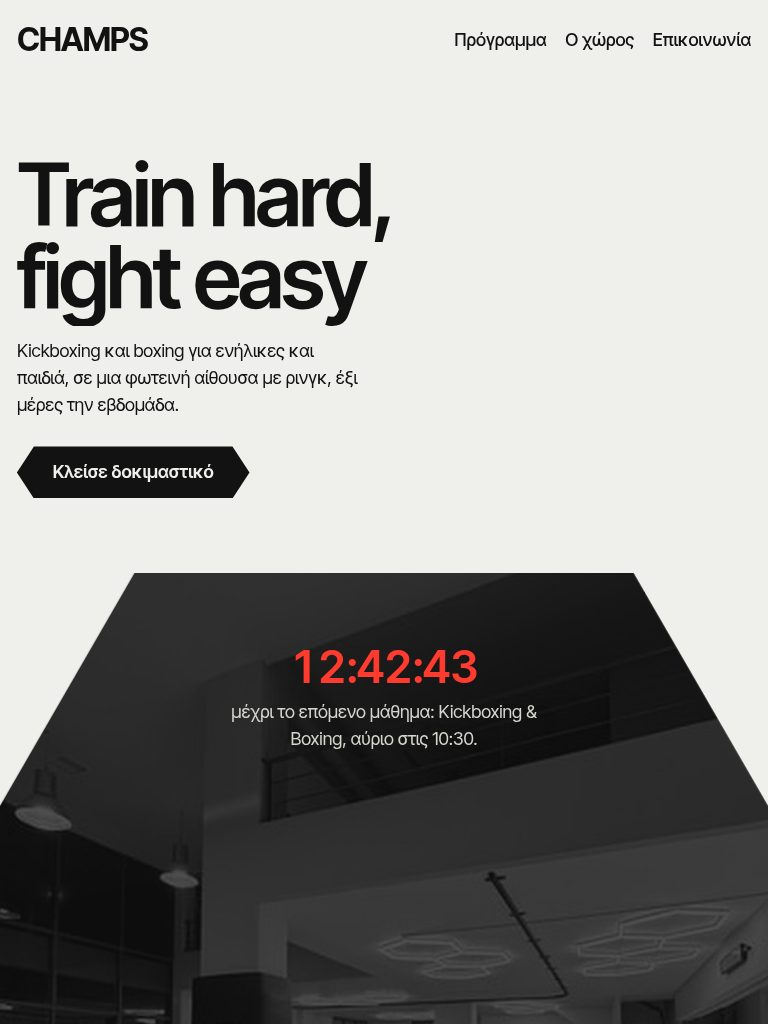
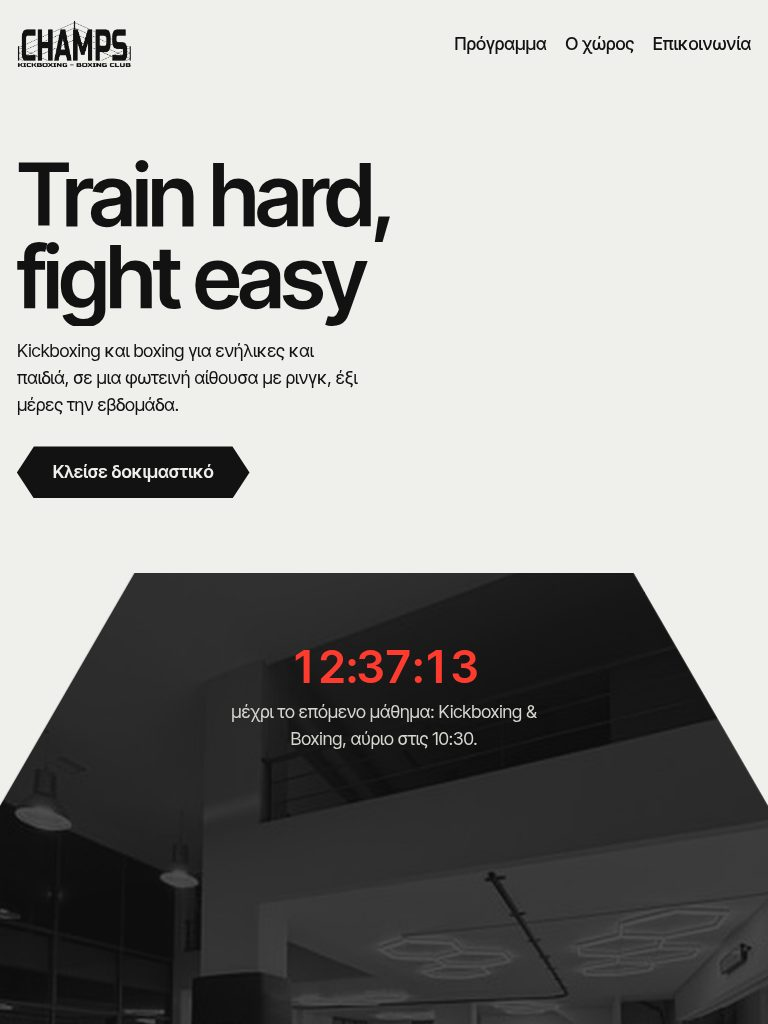
added things

Changed region(s): [[0.5938, 0.0312, 0.9688, 0.0625], [0.0, 0.0, 0.1875, 0.0625], [0.4688, 0.625, 0.5938, 0.6875]]

diff --git a/index.html b/index.html
@@ -8,13 +8,14 @@
 <link rel="preconnect" href="https://fonts.googleapis.com">
 <link rel="preconnect" href="https://fonts.gstatic.com" crossorigin>
 <link href="https://fonts.googleapis.com/css2?family=Inter+Tight:wght@400;500;600;700&display=swap" rel="stylesheet">
+<link rel="icon" href="assets/img/favicon.png">
 <link rel="stylesheet" href="styles.css">
 <script>document.documentElement.classList.add('js')</script>
 </head>
 <body>
 
 <header class="bar wrap">
-  <a class="wordmark" href="#top" aria-label="CHAMPS, αρχή σελίδας">CHAMPS</a>
+  <a class="wordmark" href="#top"><img src="assets/img/logo-ink.png" alt="CHAMPS Kickboxing – Boxing Club, αρχή σελίδας" width="1588" height="660"></a>
   <nav class="nav" aria-label="Κύριο μενού">
     <a class="link" href="#programma">Πρόγραμμα</a>
     <a class="link only-wide" href="#xoros">Ο χώρος</a>
@@ -38,7 +39,7 @@
   </section>
 
   <section class="intro wrap" aria-label="Ο σύλλογος">
-    <p class="statement" data-reveal>Ένα λευκό γυμναστήριο <span class="thumb"><img src="assets/img/hall-night.jpg" alt="" width="516" height="418"></span> με ρινγκ και σάκους <span class="thumb"><img src="assets/img/hall-bags.jpg" alt="" width="516" height="418"></span>, όπου ενήλικες και παιδιά <span class="thumb thumb-extra"><img src="assets/img/team.jpg" alt="" width="599" height="436"></span> προπονούνται μαζί κάτω από εξάγωνα φώτα.</p>
+    <p class="statement" data-reveal>Ένα λευκό γυμναστήριο <span class="thumb"><img src="assets/img/hall-night.jpg" alt="" width="516" height="418"></span> με ρινγκ και σάκους <span class="thumb"><img src="assets/img/hall-bags.jpg" alt="" width="516" height="418"></span>, όπου ενήλικες και παιδιά <span class="thumb thumb-extra"><img src="assets/img/kid-stance.jpg" alt="" width="283" height="273"></span> προπονούνται μαζί κάτω από εξάγωνα φώτα.</p>
   </section>
 
   <section class="programme" id="programma" aria-labelledby="programme-title">
@@ -60,7 +61,7 @@
           <h3 class="day-name">Δευτέρα <span class="day-count">5 μαθήματα</span></h3>
           <ul class="classes">
             <li class="cls" data-start="10:30" data-end="11:30" data-name="Kickboxing &amp; Boxing"><span class="hex-bullet"><img src="assets/img/coach-pads.jpg" alt="" width="337" height="545" loading="lazy"></span><div class="cls-body"><p class="cls-row"><span class="cls-name">Kickboxing &amp; Boxing</span><span class="cls-time nums">10:30–11:30</span></p><p class="cls-desc">Πρωινό μικτό τμήμα, για κάθε επίπεδο.</p><p class="cls-flag" hidden></p></div></li>
-            <li class="cls" data-start="17:30" data-end="18:30" data-name="Παιδικό τμήμα"><span class="hex-bullet"><img src="assets/img/kids-kick.jpg" alt="" width="337" height="545" loading="lazy"></span><div class="cls-body"><p class="cls-row"><span class="cls-name">Παιδικό τμήμα</span><span class="cls-time nums">17:30–18:30</span></p><p class="cls-desc">Kickboxing για παιδιά: πειθαρχία, συντονισμός, ασφάλεια.</p><p class="cls-flag" hidden></p></div></li>
+            <li class="cls" data-start="17:30" data-end="18:30" data-name="Παιδικό τμήμα"><span class="hex-bullet"><img src="assets/img/kid-stance.jpg" alt="" width="283" height="273" loading="lazy"></span><div class="cls-body"><p class="cls-row"><span class="cls-name">Παιδικό τμήμα</span><span class="cls-time nums">17:30–18:30</span></p><p class="cls-desc">Kickboxing για παιδιά: πειθαρχία, συντονισμός, ασφάλεια.</p><p class="cls-flag" hidden></p></div></li>
             <li class="cls" data-start="18:30" data-end="19:30" data-name="Kickboxing &amp; Boxing"><span class="hex-bullet"><img src="assets/img/coach-pads.jpg" alt="" width="337" height="545" loading="lazy"></span><div class="cls-body"><p class="cls-row"><span class="cls-name">Kickboxing &amp; Boxing</span><span class="cls-time nums">18:30–19:30</span></p><p class="cls-desc">Μικτό τμήμα: τεχνική, σάκος και στόχοι.</p><p class="cls-flag" hidden></p></div></li>
             <li class="cls" data-start="19:30" data-end="20:30" data-name="Cross training"><span class="hex-bullet"><img src="assets/img/hall-bags.jpg" alt="" width="516" height="418" loading="lazy"></span><div class="cls-body"><p class="cls-row"><span class="cls-name">Cross training</span><span class="cls-time nums">19:30–20:30</span></p><p class="cls-desc">Κυκλική προπόνηση δύναμης και αντοχής.</p><p class="cls-flag" hidden></p></div></li>
             <li class="cls" data-start="20:30" data-end="21:30" data-name="Kickboxing &amp; Boxing"><span class="hex-bullet"><img src="assets/img/coach-pads.jpg" alt="" width="337" height="545" loading="lazy"></span><div class="cls-body"><p class="cls-row"><span class="cls-name">Kickboxing &amp; Boxing</span><span class="cls-time nums">20:30–21:30</span></p><p class="cls-desc">Το βραδινό μικτό τμήμα, για κάθε επίπεδο.</p><p class="cls-flag" hidden></p></div></li>
@@ -70,9 +71,9 @@
           <h3 class="day-name">Τρίτη <span class="day-count">5 μαθήματα</span></h3>
           <ul class="classes">
             <li class="cls" data-start="10:30" data-end="11:30" data-name="Kickboxing &amp; Boxing"><span class="hex-bullet"><img src="assets/img/coach-pads.jpg" alt="" width="337" height="545" loading="lazy"></span><div class="cls-body"><p class="cls-row"><span class="cls-name">Kickboxing &amp; Boxing</span><span class="cls-time nums">10:30–11:30</span></p><p class="cls-desc">Πρωινό μικτό τμήμα, για κάθε επίπεδο.</p><p class="cls-flag" hidden></p></div></li>
-            <li class="cls" data-start="17:30" data-end="18:30" data-name="Παιδικό τμήμα"><span class="hex-bullet"><img src="assets/img/kids-kick.jpg" alt="" width="337" height="545" loading="lazy"></span><div class="cls-body"><p class="cls-row"><span class="cls-name">Παιδικό τμήμα</span><span class="cls-time nums">17:30–18:30</span></p><p class="cls-desc">Kickboxing για παιδιά: πειθαρχία, συντονισμός, ασφάλεια.</p><p class="cls-flag" hidden></p></div></li>
+            <li class="cls" data-start="17:30" data-end="18:30" data-name="Παιδικό τμήμα"><span class="hex-bullet"><img src="assets/img/kid-stance.jpg" alt="" width="283" height="273" loading="lazy"></span><div class="cls-body"><p class="cls-row"><span class="cls-name">Παιδικό τμήμα</span><span class="cls-time nums">17:30–18:30</span></p><p class="cls-desc">Kickboxing για παιδιά: πειθαρχία, συντονισμός, ασφάλεια.</p><p class="cls-flag" hidden></p></div></li>
             <li class="cls" data-start="18:30" data-end="19:30" data-name="Kickboxing &amp; Boxing"><span class="hex-bullet"><img src="assets/img/coach-pads.jpg" alt="" width="337" height="545" loading="lazy"></span><div class="cls-body"><p class="cls-row"><span class="cls-name">Kickboxing &amp; Boxing</span><span class="cls-time nums">18:30–19:30</span></p><p class="cls-desc">Μικτό τμήμα: τεχνική, σάκος και στόχοι.</p><p class="cls-flag" hidden></p></div></li>
-            <li class="cls" data-start="19:30" data-end="20:30" data-name="Boxing"><span class="hex-bullet"><img src="assets/img/sparring.jpg" alt="" width="337" height="545" loading="lazy"></span><div class="cls-body"><p class="cls-row"><span class="cls-name">Boxing</span><span class="cls-time nums">19:30–20:30</span></p><p class="cls-desc">Μόνο χέρια: στάση, κίνηση, άμυνα, στόχοι.</p><p class="cls-flag" hidden></p></div></li>
+            <li class="cls" data-start="19:30" data-end="20:30" data-name="Boxing"><span class="hex-bullet"><img src="assets/img/pads-mirror.jpg" alt="" width="337" height="545" loading="lazy"></span><div class="cls-body"><p class="cls-row"><span class="cls-name">Boxing</span><span class="cls-time nums">19:30–20:30</span></p><p class="cls-desc">Μόνο χέρια: στάση, κίνηση, άμυνα, στόχοι.</p><p class="cls-flag" hidden></p></div></li>
             <li class="cls" data-start="20:30" data-end="21:30" data-name="Kickboxing &amp; Boxing"><span class="hex-bullet"><img src="assets/img/coach-pads.jpg" alt="" width="337" height="545" loading="lazy"></span><div class="cls-body"><p class="cls-row"><span class="cls-name">Kickboxing &amp; Boxing</span><span class="cls-time nums">20:30–21:30</span></p><p class="cls-desc">Το βραδινό μικτό τμήμα, για κάθε επίπεδο.</p><p class="cls-flag" hidden></p></div></li>
           </ul>
         </div>
@@ -80,7 +81,7 @@
           <h3 class="day-name">Τετάρτη <span class="day-count">5 μαθήματα</span></h3>
           <ul class="classes">
             <li class="cls" data-start="10:30" data-end="11:30" data-name="Kickboxing &amp; Boxing"><span class="hex-bullet"><img src="assets/img/coach-pads.jpg" alt="" width="337" height="545" loading="lazy"></span><div class="cls-body"><p class="cls-row"><span class="cls-name">Kickboxing &amp; Boxing</span><span class="cls-time nums">10:30–11:30</span></p><p class="cls-desc">Πρωινό μικτό τμήμα, για κάθε επίπεδο.</p><p class="cls-flag" hidden></p></div></li>
-            <li class="cls" data-start="17:30" data-end="18:30" data-name="Παιδικό τμήμα"><span class="hex-bullet"><img src="assets/img/kids-kick.jpg" alt="" width="337" height="545" loading="lazy"></span><div class="cls-body"><p class="cls-row"><span class="cls-name">Παιδικό τμήμα</span><span class="cls-time nums">17:30–18:30</span></p><p class="cls-desc">Kickboxing για παιδιά: πειθαρχία, συντονισμός, ασφάλεια.</p><p class="cls-flag" hidden></p></div></li>
+            <li class="cls" data-start="17:30" data-end="18:30" data-name="Παιδικό τμήμα"><span class="hex-bullet"><img src="assets/img/kid-stance.jpg" alt="" width="283" height="273" loading="lazy"></span><div class="cls-body"><p class="cls-row"><span class="cls-name">Παιδικό τμήμα</span><span class="cls-time nums">17:30–18:30</span></p><p class="cls-desc">Kickboxing για παιδιά: πειθαρχία, συντονισμός, ασφάλεια.</p><p class="cls-flag" hidden></p></div></li>
             <li class="cls" data-start="18:30" data-end="19:30" data-name="Kickboxing &amp; Boxing"><span class="hex-bullet"><img src="assets/img/coach-pads.jpg" alt="" width="337" height="545" loading="lazy"></span><div class="cls-body"><p class="cls-row"><span class="cls-name">Kickboxing &amp; Boxing</span><span class="cls-time nums">18:30–19:30</span></p><p class="cls-desc">Μικτό τμήμα: τεχνική, σάκος και στόχοι.</p><p class="cls-flag" hidden></p></div></li>
             <li class="cls" data-start="19:30" data-end="20:30" data-name="Cross training"><span class="hex-bullet"><img src="assets/img/hall-bags.jpg" alt="" width="516" height="418" loading="lazy"></span><div class="cls-body"><p class="cls-row"><span class="cls-name">Cross training</span><span class="cls-time nums">19:30–20:30</span></p><p class="cls-desc">Κυκλική προπόνηση δύναμης και αντοχής.</p><p class="cls-flag" hidden></p></div></li>
             <li class="cls" data-start="20:30" data-end="21:30" data-name="Sparring"><span class="hex-bullet"><img src="assets/img/hall-ring.jpg" alt="" width="516" height="418" loading="lazy"></span><div class="cls-body"><p class="cls-row"><span class="cls-name">Sparring</span><span class="cls-time nums">20:30–21:30</span></p><p class="cls-desc">Ελεγχόμενο sparring, με προστατευτικά.</p><p class="cls-flag" hidden></p></div></li>
@@ -90,9 +91,9 @@
           <h3 class="day-name">Πέμπτη <span class="day-count">5 μαθήματα</span></h3>
           <ul class="classes">
             <li class="cls" data-start="10:30" data-end="11:30" data-name="Kickboxing &amp; Boxing"><span class="hex-bullet"><img src="assets/img/coach-pads.jpg" alt="" width="337" height="545" loading="lazy"></span><div class="cls-body"><p class="cls-row"><span class="cls-name">Kickboxing &amp; Boxing</span><span class="cls-time nums">10:30–11:30</span></p><p class="cls-desc">Πρωινό μικτό τμήμα, για κάθε επίπεδο.</p><p class="cls-flag" hidden></p></div></li>
-            <li class="cls" data-start="17:30" data-end="18:30" data-name="Παιδικό τμήμα"><span class="hex-bullet"><img src="assets/img/kids-kick.jpg" alt="" width="337" height="545" loading="lazy"></span><div class="cls-body"><p class="cls-row"><span class="cls-name">Παιδικό τμήμα</span><span class="cls-time nums">17:30–18:30</span></p><p class="cls-desc">Kickboxing για παιδιά: πειθαρχία, συντονισμός, ασφάλεια.</p><p class="cls-flag" hidden></p></div></li>
+            <li class="cls" data-start="17:30" data-end="18:30" data-name="Παιδικό τμήμα"><span class="hex-bullet"><img src="assets/img/kid-stance.jpg" alt="" width="283" height="273" loading="lazy"></span><div class="cls-body"><p class="cls-row"><span class="cls-name">Παιδικό τμήμα</span><span class="cls-time nums">17:30–18:30</span></p><p class="cls-desc">Kickboxing για παιδιά: πειθαρχία, συντονισμός, ασφάλεια.</p><p class="cls-flag" hidden></p></div></li>
             <li class="cls" data-start="18:30" data-end="19:30" data-name="Kickboxing &amp; Boxing"><span class="hex-bullet"><img src="assets/img/coach-pads.jpg" alt="" width="337" height="545" loading="lazy"></span><div class="cls-body"><p class="cls-row"><span class="cls-name">Kickboxing &amp; Boxing</span><span class="cls-time nums">18:30–19:30</span></p><p class="cls-desc">Μικτό τμήμα: τεχνική, σάκος και στόχοι.</p><p class="cls-flag" hidden></p></div></li>
-            <li class="cls" data-start="19:30" data-end="20:30" data-name="Boxing"><span class="hex-bullet"><img src="assets/img/sparring.jpg" alt="" width="337" height="545" loading="lazy"></span><div class="cls-body"><p class="cls-row"><span class="cls-name">Boxing</span><span class="cls-time nums">19:30–20:30</span></p><p class="cls-desc">Μόνο χέρια: στάση, κίνηση, άμυνα, στόχοι.</p><p class="cls-flag" hidden></p></div></li>
+            <li class="cls" data-start="19:30" data-end="20:30" data-name="Boxing"><span class="hex-bullet"><img src="assets/img/pads-mirror.jpg" alt="" width="337" height="545" loading="lazy"></span><div class="cls-body"><p class="cls-row"><span class="cls-name">Boxing</span><span class="cls-time nums">19:30–20:30</span></p><p class="cls-desc">Μόνο χέρια: στάση, κίνηση, άμυνα, στόχοι.</p><p class="cls-flag" hidden></p></div></li>
             <li class="cls" data-start="20:30" data-end="21:30" data-name="Kickboxing &amp; Boxing"><span class="hex-bullet"><img src="assets/img/coach-pads.jpg" alt="" width="337" height="545" loading="lazy"></span><div class="cls-body"><p class="cls-row"><span class="cls-name">Kickboxing &amp; Boxing</span><span class="cls-time nums">20:30–21:30</span></p><p class="cls-desc">Το βραδινό μικτό τμήμα, για κάθε επίπεδο.</p><p class="cls-flag" hidden></p></div></li>
           </ul>
         </div>
@@ -100,7 +101,7 @@
           <h3 class="day-name">Παρασκευή <span class="day-count">5 μαθήματα</span></h3>
           <ul class="classes">
             <li class="cls" data-start="10:30" data-end="11:30" data-name="Kickboxing &amp; Boxing"><span class="hex-bullet"><img src="assets/img/coach-pads.jpg" alt="" width="337" height="545" loading="lazy"></span><div class="cls-body"><p class="cls-row"><span class="cls-name">Kickboxing &amp; Boxing</span><span class="cls-time nums">10:30–11:30</span></p><p class="cls-desc">Πρωινό μικτό τμήμα, για κάθε επίπεδο.</p><p class="cls-flag" hidden></p></div></li>
-            <li class="cls" data-start="17:30" data-end="18:30" data-name="Παιδικό τμήμα"><span class="hex-bullet"><img src="assets/img/kids-kick.jpg" alt="" width="337" height="545" loading="lazy"></span><div class="cls-body"><p class="cls-row"><span class="cls-name">Παιδικό τμήμα</span><span class="cls-time nums">17:30–18:30</span></p><p class="cls-desc">Kickboxing για παιδιά: πειθαρχία, συντονισμός, ασφάλεια.</p><p class="cls-flag" hidden></p></div></li>
+            <li class="cls" data-start="17:30" data-end="18:30" data-name="Παιδικό τμήμα"><span class="hex-bullet"><img src="assets/img/kid-stance.jpg" alt="" width="283" height="273" loading="lazy"></span><div class="cls-body"><p class="cls-row"><span class="cls-name">Παιδικό τμήμα</span><span class="cls-time nums">17:30–18:30</span></p><p class="cls-desc">Kickboxing για παιδιά: πειθαρχία, συντονισμός, ασφάλεια.</p><p class="cls-flag" hidden></p></div></li>
             <li class="cls" data-start="18:30" data-end="19:30" data-name="Kickboxing &amp; Boxing"><span class="hex-bullet"><img src="assets/img/coach-pads.jpg" alt="" width="337" height="545" loading="lazy"></span><div class="cls-body"><p class="cls-row"><span class="cls-name">Kickboxing &amp; Boxing</span><span class="cls-time nums">18:30–19:30</span></p><p class="cls-desc">Μικτό τμήμα: τεχνική, σάκος και στόχοι.</p><p class="cls-flag" hidden></p></div></li>
             <li class="cls" data-start="19:30" data-end="20:30" data-name="Cross training"><span class="hex-bullet"><img src="assets/img/hall-bags.jpg" alt="" width="516" height="418" loading="lazy"></span><div class="cls-body"><p class="cls-row"><span class="cls-name">Cross training</span><span class="cls-time nums">19:30–20:30</span></p><p class="cls-desc">Κυκλική προπόνηση δύναμης και αντοχής.</p><p class="cls-flag" hidden></p></div></li>
             <li class="cls" data-start="20:30" data-end="21:30" data-name="Kickboxing &amp; Boxing"><span class="hex-bullet"><img src="assets/img/coach-pads.jpg" alt="" width="337" height="545" loading="lazy"></span><div class="cls-body"><p class="cls-row"><span class="cls-name">Kickboxing &amp; Boxing</span><span class="cls-time nums">20:30–21:30</span></p><p class="cls-desc">Το βραδινό μικτό τμήμα, για κάθε επίπεδο.</p><p class="cls-flag" hidden></p></div></li>
@@ -127,7 +128,7 @@
         <li class="point" data-reveal style="--c:var(--ink)"><h3><span class="mark"></span>Ρινγκ αγώνων</h3><p>Πλήρες ρινγκ στη μέση της αίθουσας, για sparring και προετοιμασία αγώνων.</p></li>
         <li class="point" data-reveal style="--c:var(--muted)"><h3><span class="mark"></span>Σειρά από σάκους</h3><p>Κρεμαστοί σάκοι σε σειρά, ώστε όλο το τμήμα να δουλεύει ταυτόχρονα.</p></li>
         <li class="point" data-reveal style="--c:var(--led)"><h3><span class="mark"></span>Χρονόμετρο γύρων</h3><p>Οι γύροι μετράνε στο ρολόι του τοίχου, όπως σε αγώνα.</p></li>
-        <li class="point" data-reveal style="--c:var(--ink)"><h3><span class="mark"></span>Τοίχος καθρεφτών</h3><p>Βλέπεις τη στάση και τους συνδυασμούς σου σε κάθε γύρο.</p></li>
+        <li class="point" data-reveal style="--c:var(--ink)"><h3><span class="mark"></span>Ομάδα αγώνων</h3><p>Όσοι θέλουν, ανεβαίνουν σε αγώνες με την ομάδα και τους προπονητές τους.</p></li>
         <li class="point" data-reveal style="--c:var(--muted)"><h3><span class="mark"></span>Πρωινό τμήμα</h3><p>Κάθε μέρα στις 10:30, και το Σάββατο, για όσους δουλεύουν απογεύματα.</p></li>
         <li class="point" data-reveal style="--c:var(--led)"><h3><span class="mark"></span>Παιδικό τμήμα</h3><p>Δευτέρα έως Παρασκευή, 17:30–18:30, με ασκήσεις στα μέτρα των παιδιών.</p></li>
         <li class="point" data-reveal style="--c:var(--ink)"><h3><span class="mark"></span>Από το μηδέν</h3><p>Τα μικτά τμήματα δέχονται κάθε επίπεδο. Ξεκινάς από τη στάση και τα βασικά χτυπήματα.</p></li>
@@ -148,7 +149,10 @@
         <img src="assets/img/hall-bags.jpg" alt="Σειρά από μαύρους σάκους CHAMPS κρεμασμένους από ράγα" width="516" height="418" loading="lazy" data-cap="Οι σάκοι, στη σειρά.">
         <img src="assets/img/team.jpg" alt="Η ομάδα του CHAMPS, ενήλικες και παιδιά, μπροστά στο ρινγκ κάτω από τα εξάγωνα φώτα" width="599" height="436" loading="lazy" data-cap="Η ομάδα, ενήλικες και παιδιά μαζί.">
         <img src="assets/img/hall-night.jpg" alt="Η αίθουσα το βράδυ με τα εξάγωνα φώτα αναμμένα και τον τοίχο καθρεφτών" width="516" height="418" loading="lazy" data-cap="Το βράδυ, με τα εξάγωνα αναμμένα.">
+        <img src="assets/img/team-event.jpg" alt="Αθλητές και προπονητές του CHAMPS μαζί σε αγώνες, ένας με μετάλλιο" width="311" height="390" loading="lazy" data-cap="Η ομάδα, στους αγώνες.">
+        <img src="assets/img/pads-mirror.jpg" alt="Προπονητής κρατά στόχους σε αθλητή με χρυσά γάντια μπροστά στον τοίχο καθρεφτών" width="337" height="545" loading="lazy" data-cap="Στόχοι, μπροστά στους καθρέφτες.">
         <img src="assets/img/sparring.jpg" alt="Δύο αθλητές με κράνος και γάντια κάνουν boxing μπροστά στο χρονόμετρο γύρων" width="337" height="545" loading="lazy" data-cap="Boxing, κάτω από το χρονόμετρο.">
+        <img src="assets/img/kid-stance.jpg" alt="Μικρή αθλήτρια με κράνος και ροζ γάντια σε στάση μάχης" width="283" height="273" loading="lazy" data-cap="Στάση μάχης, στο παιδικό.">
         <img src="assets/img/kids-kick.jpg" alt="Δύο νεαρές αθλήτριες με επικαλαμίδες εξασκούν λάκτισμα" width="337" height="545" loading="lazy" data-cap="Λακτίσματα στο παιδικό τμήμα.">
       </button>
       <figcaption class="frame-cap" aria-live="polite">Το ρινγκ, κάτω από το πατάρι.</figcaption>
@@ -220,9 +224,7 @@
 
 <footer class="footer">
   <div class="wrap">
-    <div class="mark-blocks" aria-label="CHAMPS" role="img">
-      <span style="--h:100%">C</span><span style="--h:78%">H</span><span style="--h:90%">A</span><span style="--h:66%">M</span><span style="--h:84%">P</span><span style="--h:72%">S</span>
-    </div>
+    <img class="foot-logo" src="assets/img/logo-light.png" alt="CHAMPS Kickboxing – Boxing Club" width="1588" height="660" loading="lazy">
     <div class="foot-grid">
       <ul class="foot-links">
         <li><a class="link" href="#programma">Πρόγραμμα</a></li>

diff --git a/styles.css b/styles.css
@@ -89,8 +89,11 @@ p { max-width: 62ch; text-wrap: pretty; }
 }
 
 /* ---------- bar ---------- */
-.bar { position: absolute; inset: 0 0 auto 0; z-index: 5; display: flex; align-items: center; justify-content: space-between; height: 5rem; }
-.wordmark { font-size: 2rem; font-weight: 700; letter-spacing: -0.03em; text-decoration: none; line-height: 1; }
+.bar { position: absolute; inset: 0 0 auto 0; z-index: 5; display: flex; align-items: center; justify-content: space-between; height: 5.5rem; }
+.wordmark { display: block; text-decoration: none; transition: opacity var(--t-hover) ease; }
+.wordmark img { height: 3rem; width: auto; }
+@media (min-width: 60em) { .wordmark img { height: 4.25rem; } }
+@media (hover: hover) and (pointer: fine) { .wordmark:hover { opacity: 0.75; } }
 .nav { display: flex; gap: clamp(1rem, 2.4vw, 2.25rem); font-weight: 500; }
 .nav a { text-decoration-thickness: 0.08em; }
 @media (min-width: 60em) { .nav { color: var(--bg); } }
@@ -244,18 +247,17 @@ select.field { appearance: none; background-image: none; cursor: pointer; }
     clip-path: polygon(0 14px, 8px 14px, 16px 0, 100% 0, 100% 100%, 16px 100%, 8px calc(100% - 14px), 0 calc(100% - 14px)); }
 }
 
-/* ---------- footer: the name, built from blocks ---------- */
-.footer { background: var(--surface); padding-block: calc(var(--section) / 2) 2rem; }
-.mark-blocks { display: flex; align-items: flex-end; gap: 4px; height: 22svh; min-height: 9rem; }
-.mark-blocks span { flex: 1; height: var(--h); display: flex; align-items: flex-end; justify-content: center; overflow: hidden; background: var(--ink); color: var(--surface); font-weight: 700; font-size: min(16vw, 20svh); line-height: 0.74; letter-spacing: 0; transform-origin: bottom; }
-.foot-grid { display: grid; grid-template-columns: 1fr 1fr; gap: 2.5rem var(--gutter); margin-top: 3.5rem; }
+/* ---------- footer: the club's own mark returns, full width, on the black of its poster ---------- */
+.footer { background: var(--night); color: var(--bg); padding-block: calc(var(--section) * 0.6) 2rem; }
+.foot-logo { width: 100%; height: auto; transform-origin: 50% 100%; }
+.foot-grid { display: grid; grid-template-columns: 1fr 1fr; gap: 2.5rem var(--gutter); margin-top: 4rem; }
 .foot-links { display: grid; gap: 0.35rem; }
 .foot-hours p + p, .foot-address p + p { margin-top: 1rem; }
 .foot-address { grid-column: 1 / -1; }
-.foot-last { display: flex; justify-content: space-between; align-items: center; gap: 1rem; margin-top: 3.5rem; color: var(--muted); }
+.foot-last { display: flex; justify-content: space-between; align-items: center; gap: 1rem; margin-top: 3.5rem; color: var(--night-soft); }
+.footer .button { background: var(--bg); color: var(--ink); }
+@media (hover: hover) and (pointer: fine) { .footer .button:hover { background: #ffffff; } }
 @media (min-width: 60em) {
-  .mark-blocks { height: 34svh; }
-  .mark-blocks span { font-size: min(15vw, 30svh); }
   .foot-grid { grid-template-columns: 4fr 4fr 4fr; }
   .foot-address { grid-column: auto; }
 }
@@ -277,8 +279,8 @@ select.field { appearance: none; background-image: none; cursor: pointer; }
   .js .shutter[data-reveal].is-in img { transform: none; }
   .frame-hex img.is-on { animation: drift 7s linear both; }
   .hero-hex img { animation: drift-slow 24s var(--ease-in-out) infinite alternate; }
-  .js .mark-blocks span { transform: scaleY(0.2); opacity: 0; transition: transform 900ms var(--ease-out), opacity 500ms ease; transition-delay: calc(var(--d, 0) * 70ms); }
-  .js .mark-blocks.is-in span { transform: none; opacity: 1; }
+  .js .foot-logo { opacity: 0; transform: translateY(8%) scale(0.96); transition: opacity 700ms ease, transform 1100ms var(--ease-out); }
+  .js .foot-logo.is-in { opacity: 1; transform: none; }
   @media (min-width: 60em) {
     .js .timer[data-rise] { transform: translateY(calc(-50% + 20px)); animation-name: rise-timer-wide; }
     .js .hero-hex { animation-name: hex-in-wide; }

diff --git a/main.js b/main.js
@@ -105,8 +105,7 @@ if (tabs.length) {
 document.querySelectorAll('section, footer').forEach((sec) => {
   sec.querySelectorAll('[data-reveal]').forEach((el, i) => el.style.setProperty('--d', Math.min(i, 8)));
 });
-document.querySelectorAll('.mark-blocks span').forEach((s, i) => s.style.setProperty('--d', i));
-const revealTargets = document.querySelectorAll('[data-reveal], .mark-blocks');
+const revealTargets = document.querySelectorAll('[data-reveal], .foot-logo');
 if ('IntersectionObserver' in window) {
   const io = new IntersectionObserver((entries) => {
     for (const e of entries) if (e.isIntersecting) { e.target.classList.add('is-in'); io.unobserve(e.target); }
